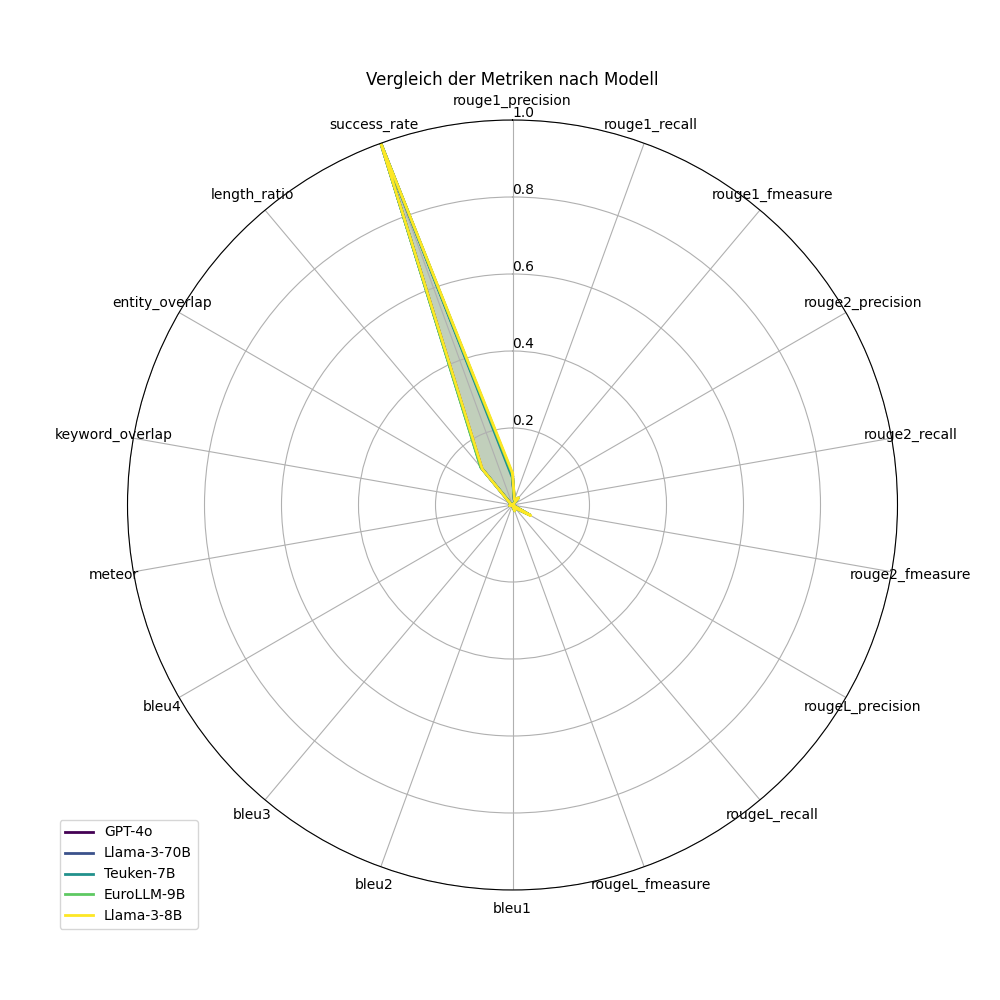
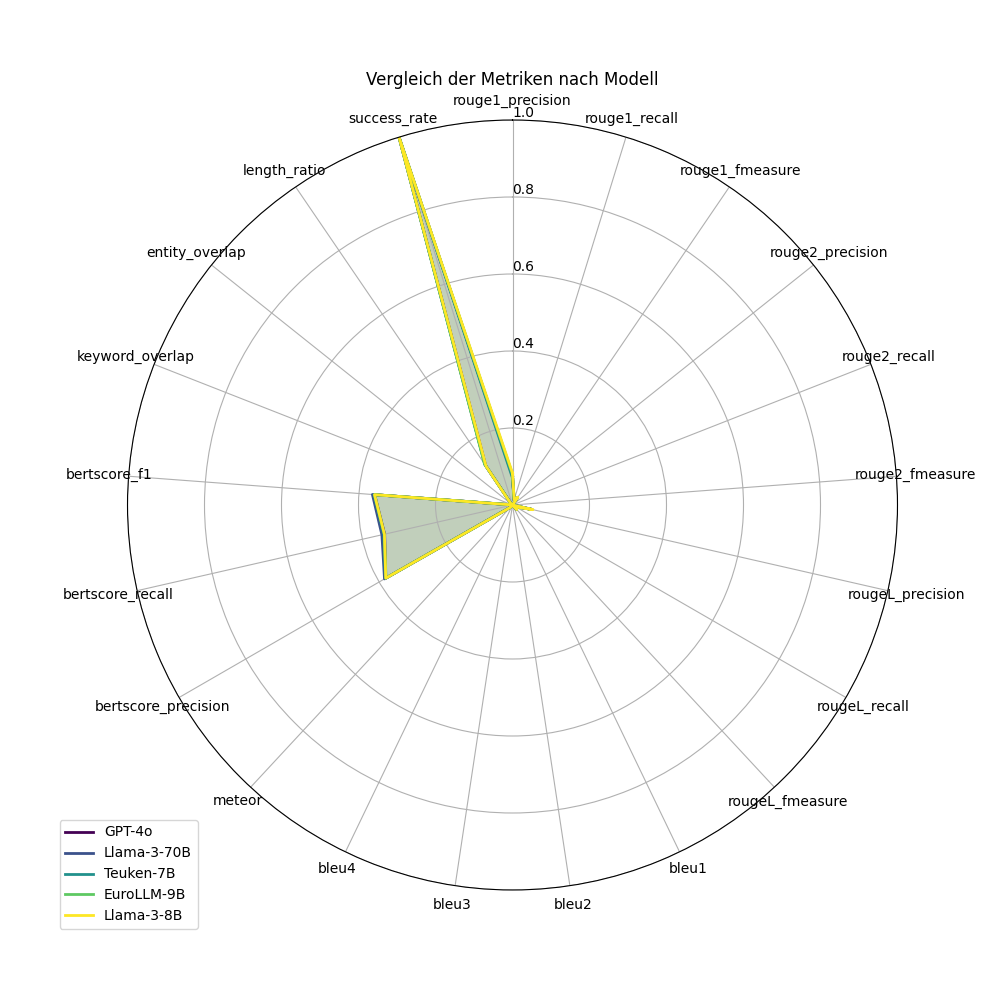
Erweiterung der BERTScore-Berechnung mit Fallback-Mechanismus und Anpassung der Ausgabe. Hinzufügen von BERTScore-Metriken zur Evaluierungsberichterstattung und Aktualisierung des Berichts mit neuen Grafiken.

diff --git a/reports/evaluation_report.html b/reports/evaluation_report.html
@@ -19,7 +19,7 @@
 </head>
 <body>
   <h1>Evaluierungsbericht für Pressemitteilungsgenerierung</h1>
-  <p>Generiert am: 2025-04-05 09:35:33</p>
+  <p>Generiert am: 2025-04-05 10:14:20</p>
   <h2>Zusammenfassung der Ergebnisse</h2>
   <table>
     <tr>
@@ -38,6 +38,9 @@
       <th>bleu3</th>
       <th>bleu4</th>
       <th>meteor</th>
+      <th>bertscore_precision</th>
+      <th>bertscore_recall</th>
+      <th>bertscore_f1</th>
       <th>keyword_overlap</th>
       <th>entity_overlap</th>
       <th>length_ratio</th>
@@ -59,6 +62,9 @@
       <td>0.0001</td>
       <td>0.0001</td>
       <td>0.0076</td>
+      <td>0.3803</td>
+      <td>0.3406</td>
+      <td>0.3592</td>
       <td>0.0008</td>
       <td>0.0034</td>
       <td>0.1234</td>
@@ -80,6 +86,9 @@
       <td>0.0001</td>
       <td>0.0001</td>
       <td>0.0085</td>
+      <td>0.3839</td>
+      <td>0.3479</td>
+      <td>0.3648</td>
       <td>0.0013</td>
       <td>0.0048</td>
       <td>0.1269</td>
@@ -101,6 +110,9 @@
       <td>0.0001</td>
       <td>0.0001</td>
       <td>0.0078</td>
+      <td>0.3812</td>
+      <td>0.3429</td>
+      <td>0.3609</td>
       <td>0.0005</td>
       <td>0.0034</td>
       <td>0.1272</td>
@@ -122,6 +134,9 @@
       <td>0.0001</td>
       <td>0.0001</td>
       <td>0.0081</td>
+      <td>0.3793</td>
+      <td>0.3415</td>
+      <td>0.3592</td>
       <td>0.0013</td>
       <td>0.0043</td>
       <td>0.1292</td>
@@ -143,6 +158,9 @@
       <td>0.0001</td>
       <td>0.0001</td>
       <td>0.0084</td>
+      <td>0.3801</td>
+      <td>0.3412</td>
+      <td>0.3594</td>
       <td>0.0008</td>
       <td>0.0048</td>
       <td>0.1220</td>
@@ -214,6 +232,18 @@
   <div class='figure'>
     <h4>Meteor</h4>
     <img src='figures/meteor_comparison.png' alt='meteor Comparison'>
+  </div>
+  <div class='figure'>
+    <h4>Bertscore Precision</h4>
+    <img src='figures/bertscore-precision_comparison.png' alt='bertscore_precision Comparison'>
+  </div>
+  <div class='figure'>
+    <h4>Bertscore Recall</h4>
+    <img src='figures/bertscore-recall_comparison.png' alt='bertscore_recall Comparison'>
+  </div>
+  <div class='figure'>
+    <h4>Bertscore F1</h4>
+    <img src='figures/bertscore-f1_comparison.png' alt='bertscore_f1 Comparison'>
   </div>
   <div class='figure'>
     <h4>Keyword Overlap</h4>

diff --git a/courtpressger/evaluation/metrics.py b/courtpressger/evaluation/metrics.py
@@ -259,20 +259,32 @@ class BertScoreMetric:
             Dictionary mit Precision, Recall und F1-Score des BERTScores.
         """
         try:
-            P, R, F1 = bert_score.score(
-                [generated], 
-                [reference], 
-                lang=self.lang, 
-                model_type=self.model_type, 
-                device=self.device,
-                verbose=False, # Weniger Output in der Konsole
-                trust_remote_code=True # Wichtig für EuroBERT
-            )
+            print(f"INFO: Berechne BERTScore mit lokalem Modell '{self.model_type}' und num_layers=12 (bert-score v0.3.12)...")
+            try:
+                # BERTScore mit dem angegebenen Modell berechnen 
+                P, R, F1 = bert_score.score(
+                    [generated], [reference],
+                    lang=self.lang,
+                    model_type=self.model_type,
+                    num_layers=12,
+                    device="cuda" if torch.cuda.is_available() else "cpu"
+                )
+            except Exception as e:
+                # Bei Problemen mit EuroBERT, verwenden wir ein direkt unterstütztes Modell
+                fallback_model = "bert-base-multilingual-cased"  # Dieses Modell ist in bert-score direkt unterstützt
+                print(f"WARNUNG: BERTScore mit {self.model_type} fehlgeschlagen ({e}). Fallback zu {fallback_model}...")
+                
+                # Fallback mit Standard lang-Parameter, damit die automatischen Layer-Werte verwendet werden
+                P, R, F1 = bert_score.score(
+                    [generated], [reference],
+                    lang=self.lang,
+                    model_type=self.model_type
+                )
             
             return {
-                "bertscore_precision": P.mean().item(),
-                "bertscore_recall": R.mean().item(),
-                "bertscore_f1": F1.mean().item()
+                "bertscore_precision": P.item(),
+                "bertscore_recall": R.item(),
+                "bertscore_f1": F1.item()
             }
         except Exception as e:
             print(f"Fehler bei BERTScore-Berechnung (Modell: {self.model_type}, Lang: {self.lang}): {e}")
@@ -434,16 +446,14 @@ def compute_all_metrics(reference: str, generated: str,
     # BERTScore berechnen (falls verfügbar und aktiviert)
     if BERT_SCORE_AVAILABLE and bert_score_model:
         try:
-            # Verwende den ursprünglichen lokalen Pfad
-            print(f"INFO: Berechne BERTScore mit lokalem Modell '{bert_score_model}' und num_layers=32 (bert-score v0.3.12)...")
-
-            # Versuchen wir es mit EuroBERT
+            print(f"INFO: Berechne BERTScore mit lokalem Modell '{bert_score_model}' und num_layers=12 (bert-score v0.3.12)...")
             try:
+                # BERTScore mit dem angegebenen Modell berechnen 
                 P, R, F1 = bert_score.score(
                     [generated], [reference],
                     lang=lang,
                     model_type=bert_score_model,
-                    num_layers=32,
+                    num_layers=12,
                     device="cuda" if torch.cuda.is_available() else "cpu"
                 )
             except Exception as e:
@@ -455,7 +465,7 @@ def compute_all_metrics(reference: str, generated: str,
                 P, R, F1 = bert_score.score(
                     [generated], [reference],
                     lang=lang,
-                    device="cuda" if torch.cuda.is_available() else "cpu"
+                    model_type=bert_score_model
                 )
             
             metrics.update({
